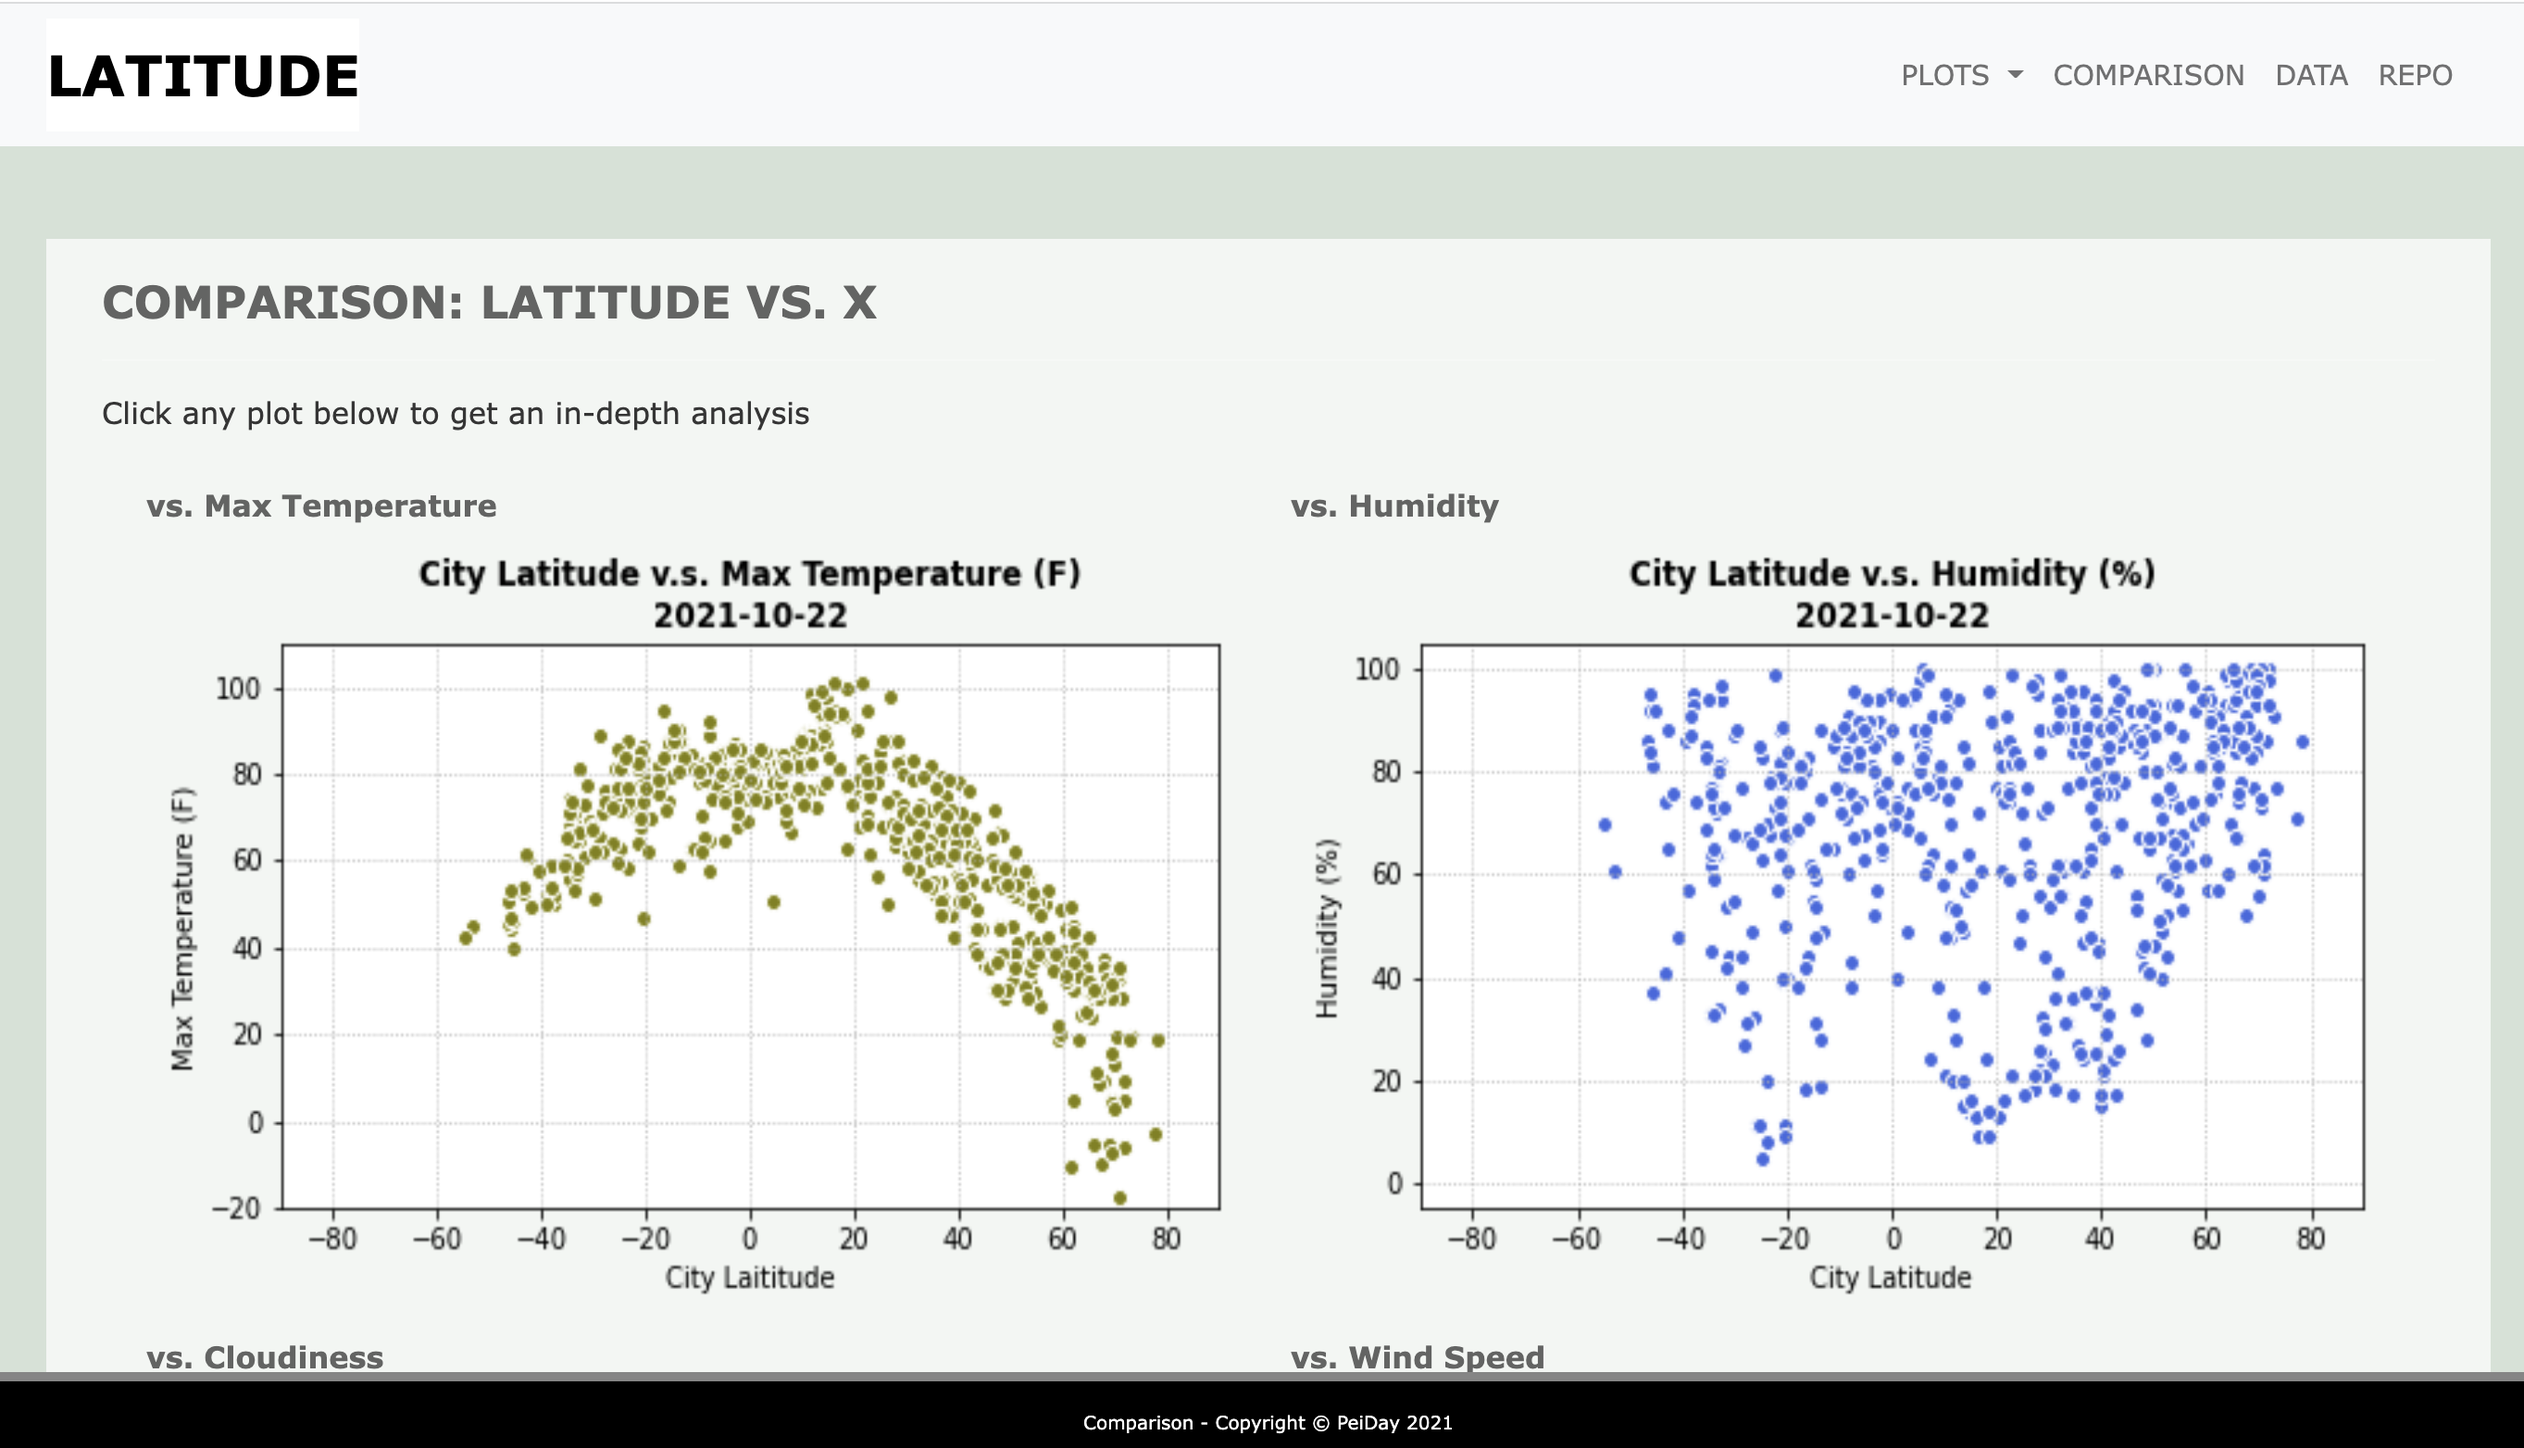
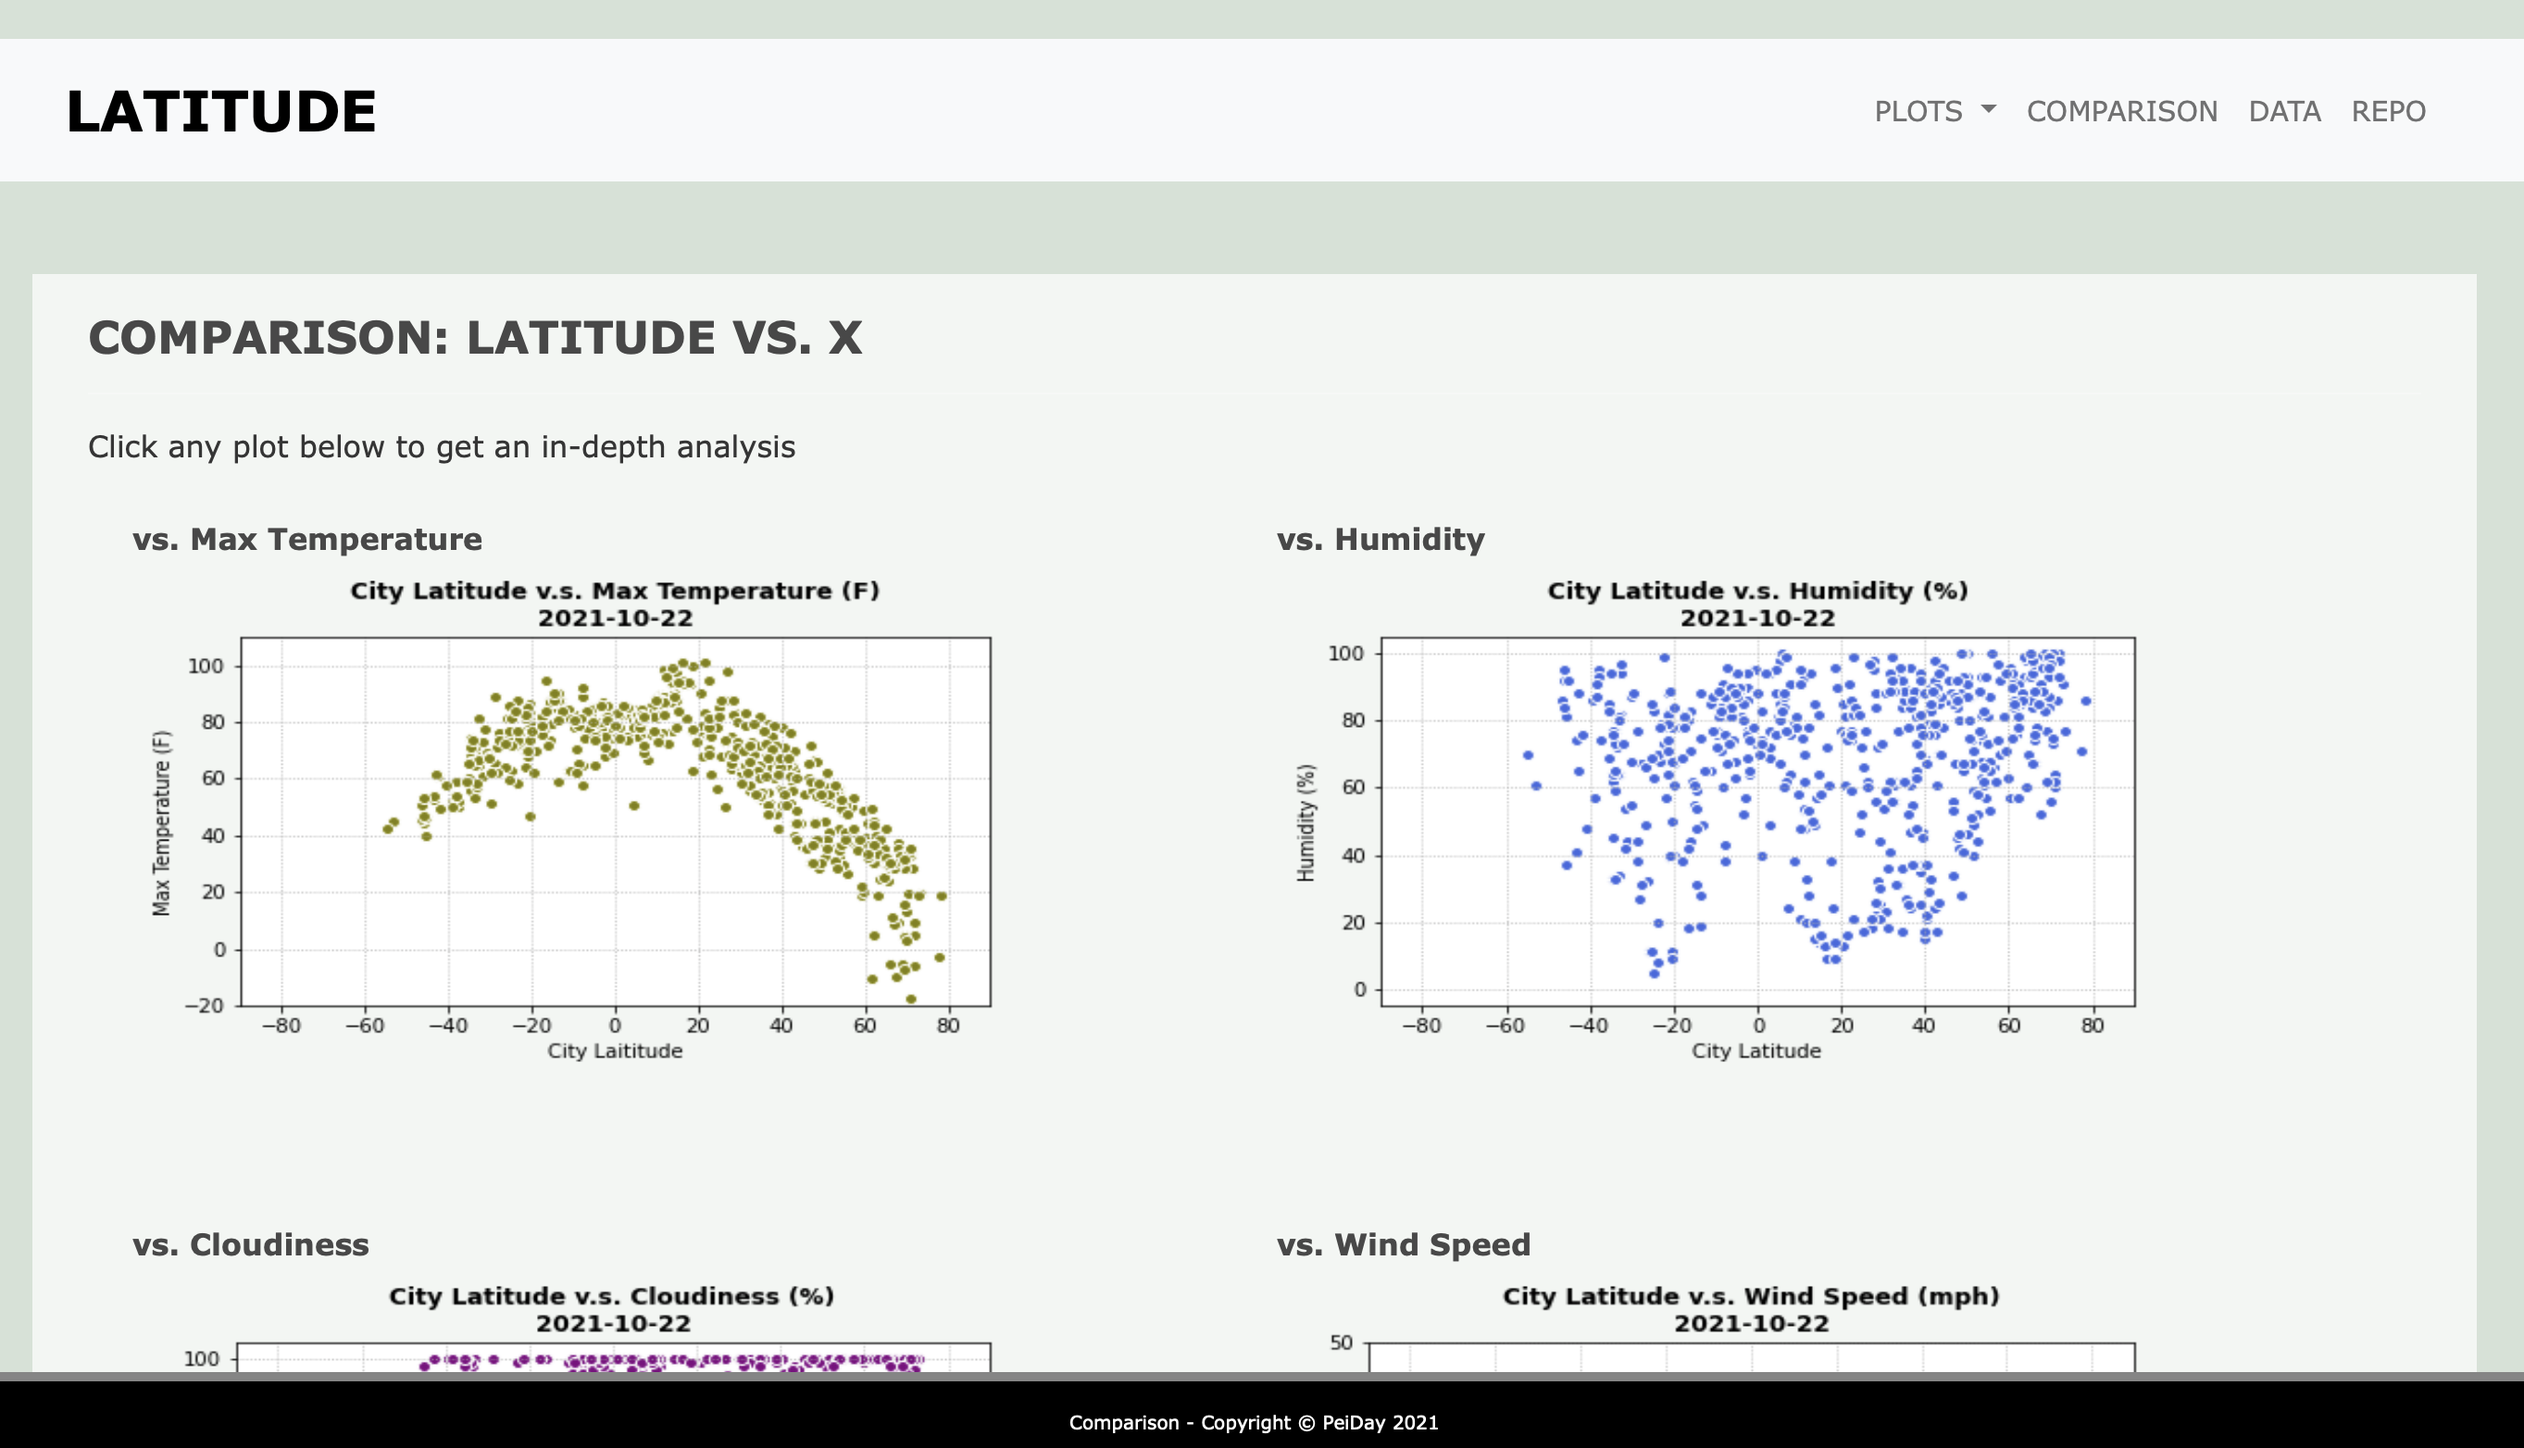
updates

diff --git a/Visualizations/comparisons.html b/Visualizations/comparisons.html
@@ -16,7 +16,7 @@
     <link rel="stylesheet" type="text/css" href="../style.css">
     <title>Comparison</title>
 </head>
-<body>
+<body style="padding-top: 50px">
     <div class="navigation">
         <nav class="navbar navbar-expand-lg navbar-light bg-light">
           <a class="navbar-brand" href="../index.html"> LATITUDE </a>
@@ -29,9 +29,8 @@
               <ul class="navbar-nav me-auto mb-2 mb-lg-0">
     
                     <li class="nav-item dropdown">
-                        <a class="nav-link dropdown-toggle" href="#" id="navbarDropdown" 
-                        role="button" data-bs-toggle="dropdown" aria-haspopup="true" 
-                        aria-expanded="false"> PLOTS </a>
+                        <a class="nav-link dropdown-toggle" href="#" id="navbarDropdown" role="button" data-bs-toggle="dropdown" 
+                        aria-haspopup="true" aria-expanded="false"> PLOTS </a>
     
                         <div class="dropdown-menu" aria-labelledby="navbarDropdown">
                             <a class="dropdown-item" href="../Visualizations/temperature.html">Max Temperature</a>
@@ -42,7 +41,7 @@
                     </li>
     
                     <li class="nav-item">
-                        <a class="nav-link" href="../Visualizations/comparison.html">COMPARISON</a>
+                        <a class="nav-link" href="../Visualizations/comparisons.html">COMPARISON</a>
                     </li>
     
                     <li class="nav-item">
@@ -57,12 +56,12 @@
         </nav>
     </div>
     <div class="container">
-        <div class="row">
+        <div class="row align-items-start">
             <div class="box">
                 <h4 class="title">COMPARISON: LATITUDE VS. X</h4>
                 <hr>
                 <p>Click any plot below to get an in-depth analysis</p>
-                <div class="container" style="padding-bottom: 10px;">
+                <div class="container" style="padding-bottom: 10px">
                     <div class="row">
                         <div class="col-lg-6" style="padding-bottom: 30px;">
                             <div class="title">vs. Max Temperature</div>

diff --git a/index.html b/index.html
@@ -16,7 +16,7 @@
   <link rel="stylesheet" type="text/css" href="style.css">
   <title>Weather Dashboard</title>
 </head>
-<body>
+<body style="padding-top: 50px">
   <div class="navigation">
     <nav class="navbar navbar-expand-lg navbar-light bg-light">
       <a class="navbar-brand" href="index.html"> LATITUDE </a>
@@ -56,12 +56,12 @@
     </nav>
 </div>
 <div class="container">
-  <div class="row">
+  <div class="row align-items-start">
       <div class="col-lg-7 col-md-12">
           <div class="box" style="padding-bottom: 20px;">
               <h4 class="title">SUMMARY: WEATHER PLOTS <br> (LATITUDE VS. X)</h4>
               <hr>
-              <img src="Resources/assets/Temp.png" class="vizualization rounded float-left" alt="Max Temperature Graph">
+              <img src="Resources/assets/Temp.png" alt="Max Temperature Graph" id="description-image">
               <p> The purpose of this project was to analyze how weather across 500+ cities across the world
                 changes as you get closer to the equator. To accomplish this analysis, OpenWeatherMap API was
                 utilized to assemble the dataset to create a representative model of weather across world cities.</p>
@@ -103,7 +103,7 @@
                           <a href="Visualizations/cloudiness.html">
                           <img class="panel" src="Resources/assets/Cloud.png" alt="Cloudiness Graph">
                           </a>
-                          <!-- <div class="title">vs. Cloudiness</div> -->
+
                       </div>
                       <div class="col-6">
                           <div class="title">Latitude vs. <br> Wind Speed</div>

diff --git a/Visualizations/temperature.html b/Visualizations/temperature.html
@@ -16,7 +16,7 @@
     <link rel="stylesheet" type="text/css" href="../style.css">
     <title>Max Temperature</title>
 </head>
-<body>
+<body style="padding-top: 50px">
   <div class="navigation">
     <nav class="navbar navbar-expand-lg navbar-light bg-light">
       <a class="navbar-brand" href="../index.html"> LATITUDE </a>
@@ -58,13 +58,12 @@
 </div>
 
 <div class="container">
-    <div class="row">
+    <div class="row align-items-start">
         <div class="col-lg-7 col-md-12">
             <div class="box">
                 <h4 class="title">LATITIDE VS. MAX TEMPERATURE</h4>
                 <hr>
-                <img src="../Resources/assets/Temp.png" class="vizualization rounded float-left" 
-                alt="Max Temperature Graph">
+                <img src="../Resources/assets/Temp.png" alt="Max Temperature Graph" id="description-image">
                 <p>There is a correlation between latitude and temperature. As one approaches the equator, which is represented by 0 Degrees Latitude,
                 the temperature becomes significantly warmer. However, the weather peaks at -20 Degrees Latitude, rather than at 0 Degrees Latitude, 
                 which may be due to obliquity, which is the angle of tilt of the Earth's axis of rotation.</p>

diff --git a/Visualizations/wind.html b/Visualizations/wind.html
@@ -16,7 +16,7 @@
     <link rel="stylesheet" type="text/css" href="../style.css">
     <title>Wind Speed</title>
 </head>
-<body>
+<body style="padding-top: 50px">
     <div class="navigation">
         <nav class="navbar navbar-expand-lg navbar-light bg-light">
           <a class="navbar-brand" href="../index.html"> LATITUDE </a>
@@ -56,15 +56,13 @@
             </div>
         </nav>
     </div>
-
     <div class="container">
-        <div class="row">
+        <div class="row align-items-start">
             <div class="col-lg-7 col-md-12">
                 <div class="box">
                     <h4 class="title">LATITUDE VS. WIND SPEED</h4>
                     <hr>
-                    <img src="../Resources/assets/Temp.png" class="vizualization rounded float-left" 
-                    alt="Wind Graph">
+                    <img src="../Resources/assets/Temp.png" alt="Wind Graph" id="description-image">
                     <p>Wind speed is generally between 0 and 15mph regardless of latitude, with some few points beyond that range.
                     The highest recorded wind speed of about 50mph.<br><br><br><br><br></p>
                 </div>

diff --git a/Visualizations/humidity.html b/Visualizations/humidity.html
@@ -16,7 +16,7 @@
     <link rel="stylesheet" type="text/css" href="../style.css">
     <title>Humidity</title>
 </head>
-<body>
+<body style="padding-top: 50px">
     <div class="navigation">
         <nav class="navbar navbar-expand-lg navbar-light bg-light">
           <a class="navbar-brand" href="../index.html"> LATITUDE </a>
@@ -57,13 +57,12 @@
     </nav>
 </div>
 <div class="container">
-    <div class="row">
+    <div class="row align-items-start">
         <div class="col-lg-7 col-md-12">
             <div class="box">
                 <h4 class="title">LATITIDE VS. Humidity</h4>
                 <hr>
-                <img src="../Resources/assets/Humid.png" class="vizualization rounded float-left" 
-                alt="Max Temperature Graph">
+                <img src="../Resources/assets/Humid.png" alt="Max Temperature Graph" id="description-image">
                 <p>here seems to be no relationship between latitude and humidity. A variety of measurements of humidity can be found 
                     regardless of latitude. Regarding the data, there are some points with 0% humidity towards the north pole.</p>
             </div>

diff --git a/Visualizations/cloudiness.html b/Visualizations/cloudiness.html
@@ -16,7 +16,7 @@
     <link rel="stylesheet" type="text/css" href="../style.css">
     <title>Cloudiness</title>
 </head>
-<body>
+<body style="padding-top: 50px">
     <div class="navigation">
         <nav class="navbar navbar-expand-lg navbar-light bg-light">
           <a class="navbar-brand" href="../index.html"> LATITUDE </a>
@@ -56,14 +56,13 @@
             </div>
         </nav>
     </div>
-
     <div class="container">
-        <div class="row">
+        <div class="row align-items-start">
             <div class="col-lg-7 col-md-12">
                 <div class="box">
                     <h4 class="title">LATITUDE VS. CLOUDINESS</h4>
                     <hr>
-                    <img src="../Resources/assets/Cloud.png" class="vizualization rounded float-left" alt="Cloudiness Graph">
+                    <img src="../Resources/assets/Cloud.png" alt="Cloudiness Graph" id="description-image">
                     <p>There seems to be no relationship between latitude and cloudiness. A variety of measurements of cloudiness can be found
                     regardless of latitude.<br><br><br><br><br><br></p>
                 </div>

diff --git a/style.css b/style.css
@@ -17,19 +17,19 @@ body {
   
 }
 
-img{
+img {
 
-  width:100%;
-  height:100%;
+  width:80%;
+  height:80%;
 
 }
-
 
 .nav-item {
 
   font-family: verdana;
 
 }
+
 .navigation .navbar-brand {
 
   color: rgb(0, 0, 0);
@@ -37,7 +37,7 @@ img{
   padding: inherit;
   font-size:30px;
   font-weight: bold;
-  background-color: rgb(255, 255, 255);
+  background-color: rgb(255, 255, 255, 0);
   font-family: verdana;
 
 }
@@ -54,6 +54,7 @@ img{
   position: absolute;
   right: 5%;
   font-size: small;
+
 }
 
 .active, .dropdown-menu .dropdown-item:active a:hover {

diff --git a/Visualizations/data.html b/Visualizations/data.html
@@ -16,7 +16,7 @@
     <link rel="stylesheet" type="text/css" href="../style.css">
     <title>Data</title>
 </head>
-<body>
+<body style="padding-top: 50px">
 <div class="navigation">
     <nav class="navbar navbar-expand-lg navbar-light bg-light">
       <a class="navbar-brand" href="../index.html"> LATITUDE </a>
@@ -56,7 +56,6 @@
             </div>
         </nav>
     </div>
-
     <div class="container">
         <div class="box">
             <h4 class="title">DATA</h4>

diff --git a/README.md b/README.md
@@ -19,6 +19,7 @@ The website must consist of 7 pages total, including:
 * A **[landing page](#Visualizations/pages/landing_lg)** containing:
   * An explanation of the project.
   * Links to each visualizations page with a sidebar containing preview images of each plot, and clicking an image would take you to that visualization.
+  ![landing_lg.png](https://github.com/PeiDay/Web-Design-Challenge/blob/main/Visualizations/pages/landing_lg.png)
 
 * Four **[visualization pages](#Visualizations/pages)**, each with:
   * A descriptive title and heading tag.
@@ -27,6 +28,7 @@ The website must consist of 7 pages total, including:
 * A **["Comparisons" page](#Visualizations/pages/comparison_lg)** that:
   * Contains all of the visualizations on the same page so we can easily visually compare them.
   * Uses a Bootstrap grid for the visualizations.
+  ![comparison_lg.png](https://github.com/PeiDay/Web-Design-Challenge/blob/main/Visualizations/pages/comparison_lg.png)
 
 * A **["Data" page](#Visualizations/pages/data_lg)** that:
   * Displays a responsive table containing the data used in the visualizations.
